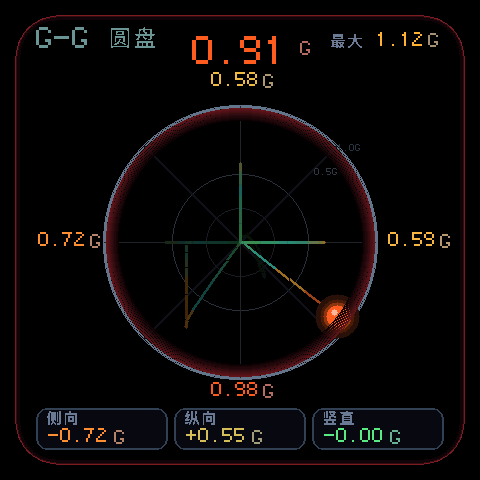
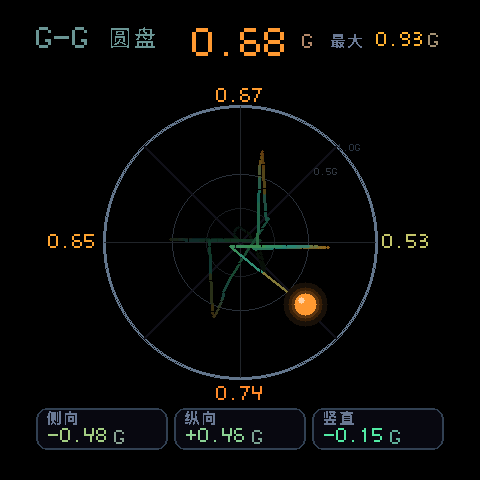
重力实时补偿+自动姿态、去掉校准提示框/双击清峰值、频谱互切整屏重推、宠物去感叹号提增益、频谱按80%分位自适应

Changed region(s): [[0.0625, 0.0312, 0.9688, 0.9375], [0.0625, 0.875, 0.9375, 0.9688], [0.0312, 0.0625, 0.0625, 0.9375]]

diff --git a/GValueMeter/gmeter.cpp b/GValueMeter/gmeter.cpp
@@ -35,6 +35,7 @@ bool GMeter::begin() {
     saveAxis();
   }
   _peak = s_prefs.getFloat("peak", 0.f);
+  _autoAxis = s_prefs.getBool("auto", true);
 
   /* 板上 SA0 通常拉低 => 0x6A；个别批次为 0x6B，两个都试一次 */
   _imuOk = qmiBegin(IIC_SDA, IIC_SCL);
@@ -73,6 +74,17 @@ void GMeter::setAxis(uint8_t lat, uint8_t lon, uint8_t vert, int8_t latSign, int
   _latIdx = lat; _lonIdx = lon; _vertIdx = vert;
   _latSign = latSign < 0 ? -1 : 1;
   _lonSign = lonSign < 0 ? -1 : 1;
+  _autoAxis = false;
+  s_prefs.begin("gmeter", false);
+  s_prefs.putUChar("sig", 0xA8);
+  s_prefs.putBool("auto", false);
+  saveAxis();
+}
+
+void GMeter::setAutoAxis(bool on) {
+  _autoAxis = on;
+  s_prefs.begin("gmeter", false);
+  s_prefs.putBool("auto", on);
   s_prefs.putUChar("sig", 0xA8);
   saveAxis();
 }
@@ -115,7 +127,6 @@ void GMeter::taskStep() {
   }
 
   float v[3] = {rx * _unit, ry * _unit, rz * _unit};
-
   /* ---- 2) 零点采集（重力矢量） ---- */
   if (_zeroReq) {
     for (int i = 0; i < 3; i++) {
@@ -132,6 +143,11 @@ void GMeter::taskStep() {
         if (var > 0) varSum += var;
       }
       _noise = sqrtf(varSum / 3.f);            // 静止噪声（各轴标准差 RMS）
+      /* 重力估计从零点采样均值出发，之后逐帧低通跟住 */
+      _grav[0] = _g0[0]; _grav[1] = _g0[1]; _grav[2] = _g0[2];
+      _gmag = sqrtf(_g0[0] * _g0[0] + _g0[1] * _g0[1] + _g0[2] * _g0[2]);
+      if (_gmag < 0.75f) _gmag = 0.75f;
+      if (_gmag > 1.25f) _gmag = 1.25f;
       _f[0] = _f[1] = _f[2] = 0.f;
       _fast[0] = _fast[1] = _fast[2] = 0.f;
       _mag = _rawMag = 0.f;
@@ -156,11 +172,47 @@ void GMeter::taskStep() {
   if (dt <= 0.f) dt = 0.001f;
   if (dt > 0.2f) dt = 0.2f;
 
-  float d[3] = {v[0] - _g0[0], v[1] - _g0[1], v[2] - _g0[2]};
+  /* ---- 3) 动态加速度：重力方向实时估计后整条减掉 ----
+   * 只减一次固定零点的话，设备换个摆放角度（屏立着 ↔ 平放）重力就会串到
+   * 别的轴上：静态读数 0.7G、圆球被顶在下半圆、轴向看起来"调换"。
+   * 这里用一阶低通跟住重力方向并单位化：
+   *   rd = v·u（沿重力的分量，静止 ≈ 1）
+   *   d  = v - rd·u（动态加速度，静止恒为 0，任意姿态都不串轴）
+   *   vert = 1 - rd（竖直动态，向上为正） */
+  float aG = 1.f - expf(-dt / 2.0f);
+  _grav[0] += (v[0] - _grav[0]) * aG;
+  _grav[1] += (v[1] - _grav[1]) * aG;
+  _grav[2] += (v[2] - _grav[2]) * aG;
+  float gl = sqrtf(_grav[0] * _grav[0] + _grav[1] * _grav[1] + _grav[2] * _grav[2]);
+  if (gl < 0.25f) {                       /* 估计还没起来：退回固定零点 */
+    _grav[0] = _g0[0]; _grav[1] = _g0[1]; _grav[2] = _g0[2];
+    gl = sqrtf(_g0[0] * _g0[0] + _g0[1] * _g0[1] + _g0[2] * _g0[2]);
+    if (gl < 0.25f) gl = 1.f;
+  }
+  float u0 = _grav[0] / gl, u1 = _grav[1] / gl, u2 = _grav[2] / gl;
 
-  float lat  = pick(d, _latIdx) * (float)_latSign;
-  float lon  = pick(d, _lonIdx) * (float)_lonSign;
-  float vert = pick(d, _vertIdx);
+  /* 重力模长也跟住（这块 IMU 原始 |g| 大约 0.87，用它做静止基准，
+   * 竖直条才不会一直顶着一个 0.13 的常数偏置） */
+  _gmag += (gl - _gmag) * aG;
+  if (_gmag < 0.75f) _gmag = 0.75f;
+  if (_gmag > 1.25f) _gmag = 1.25f;
+
+  float rd = v[0] * u0 + v[1] * u1 + v[2] * u2;
+  float d[3] = {v[0] - rd * u0, v[1] - rd * u1, v[2] - rd * u2};
+  float vertDyn = _gmag - rd;
+
+  float lat, lon, vert;
+  if (_autoAxis) {
+    /* u 更像 Y 轴 → 屏幕立着：纵向取 Z；否则屏幕平放：纵向取 Y */
+    bool upright = fabsf(u1) >= fabsf(u2);
+    lat  = d[_latIdx] * (float)_latSign;
+    lon  = (upright ? d[2] : d[1]) * (float)_lonSign;
+    vert = vertDyn;
+  } else {
+    lat  = pick(d, _latIdx) * (float)_latSign;
+    lon  = pick(d, _lonIdx) * (float)_lonSign;
+    vert = vertDyn;
+  }
 
   float aSlow = 1.f - expf(-dt / ACC_FILTER_TAU);
   float aFast = 1.f - expf(-dt / PEAK_TAU);

diff --git a/GValueMeter/mic_audio.cpp b/GValueMeter/mic_audio.cpp
@@ -249,31 +249,42 @@ static void computeSpectrum() {
     s_bIdx = (s_bIdx + 1) % NF_SPEC_WIN;
   }
 
-  /* 逐段 SNR（相对本段底噪），并找最响的一段 */
+  /* 逐段 SNR（相对本段底噪） */
   float snrB[AUDIO_BANDS];
-  float maxSnr = -999.f;
-  for (int b = 0; b < AUDIO_BANDS; b++) {
-    snrB[b] = v0[b] - s_bFloor[b];
-    if (snrB[b] > maxSnr) maxSnr = snrB[b];
+  for (int b = 0; b < AUDIO_BANDS; b++) snrB[b] = v0[b] - s_bFloor[b];
+
+  /* "满格"对应的 SNR：取 80% 分位而不是最响的那一段。
+   * 用最响段做满格的话（上一版），车里正常音量放歌时只有个别峰值段能顶到，
+   * 其余段全挤在 0.1~0.3，看起来就是"频谱不怎么动"。 */
+  float srt[AUDIO_BANDS];
+  for (int b = 0; b < AUDIO_BANDS; b++) srt[b] = snrB[b];
+  for (int i = 1; i < AUDIO_BANDS; i++) {          /* 20 个元素的插入排序，代价可忽略 */
+    float t = srt[i];
+    int j = i - 1;
+    while (j >= 0 && srt[j] > t) { srt[j + 1] = srt[j]; j--; }
+    srt[j + 1] = t;
   }
+  float p80 = srt[(AUDIO_BANDS * 4) / 5];
 
-  /* "满格"对应的 SNR 自适应：跟住最近的音乐响度（抬得快、落得慢）。
-   * 关键点：满格按 1.18 倍留余量，最响的那段也只到 ~0.85，
-   * 一般车内音量（70~85dB 播放）不会一路顶到上限。 */
   static float s_ceil = 22.f;
-  if (maxSnr > s_ceil) s_ceil += (maxSnr - s_ceil) * 0.06f;
-  else                 s_ceil += (maxSnr - s_ceil) * 0.004f;
-  if (s_ceil < 18.f) s_ceil = 18.f;
-  if (s_ceil > 46.f) s_ceil = 46.f;
+  if (p80 > s_ceil) s_ceil += (p80 - s_ceil) * 0.06f;      /* 抬：~0.3s 跟上 */
+  else              s_ceil += (p80 - s_ceil) * 0.020f;     /* 落：约 1 分钟，音量变小也不会立刻虚涨 */
+  if (s_ceil < 20.f) s_ceil = 20.f;
+  if (s_ceil > 38.f) s_ceil = 38.f;
 
-  const float startSnr = 8.f;                    /* 高出本段底噪 8dB 才起步 */
-  float denom = (s_ceil - startSnr) * 1.18f;
+  const float startSnr = 9.f;                    /* 高出本段底噪 9dB 才起步 */
+  float denom = (s_ceil - startSnr);
   if (denom < 8.f) denom = 8.f;
 
+  /* 静音总闸：整段最响的地方只比全局底噪高不到 8dB，就当没声音，
+   * 这样安静环境里不会有零星柱子在闪（车内音乐一开就能到 15~40dB） */
+  float quiet = (dbmax - s_nFloorDb) < 8.f;
+
   for (int b = 0; b < AUDIO_BANDS; b++) {
-    float v = (snrB[b] - startSnr) * (1.f / denom);
-    if (v < 0.08f) v = 0.f;                      /* 死区：底噪抖动不出柱 */
+    float v = quiet ? 0.f : (snrB[b] - startSnr) * (1.f / denom);
+    if (v < 0.06f) v = 0.f;                      /* 死区：底噪抖动不出柱 */
     if (v > 1.f) v = 1.f;
+    v = powf(v, 0.78f);                          /* 轻微压顶：中段抬起来，别都贴在底部 */
     float old = s_bands[b];
     /* 起音快、回落更慢：柱形平滑，不会一抖一抖 */
     s_bands[b] = (v > old) ? (old + (v - old) * 0.45f) : (old + (v - old) * 0.075f);

diff --git a/GValueMeter/pet_mode.cpp b/GValueMeter/pet_mode.cpp
@@ -178,8 +178,10 @@ void PetMode::update(const GSnapshot &g, const AudioSnapshot &a, float dt) {
    *  刹车（lon<0）身体前冲 → 屏幕上方；左转（lat<0）身体右甩 → 屏幕右侧。 */
   {
     const float MAX_X = 74.f, MAX_Y = 58.f;
-    float tx = -g.lat * 86.f + 4.0f * sinf(_t * 0.72f) + 2.6f * sinf(_t * 1.21f + 1.7f);
-    float ty =  g.lon * 74.f + 3.2f * sinf(_t * 0.88f + 0.6f) + 2.0f * sinf(_t * 1.37f + 2.4f);
+    /* 日常行车 G 值多在 0.5 以内，原来 86/74 的增益太"温"，0.2G 才挪十几像素；
+     * 提到 150/125 后 0.3G 就能顶到底，小幅加减速也看得出来。 */
+    float tx = -g.lat * 150.f + 4.0f * sinf(_t * 0.72f) + 2.6f * sinf(_t * 1.21f + 1.7f);
+    float ty =  g.lon * 125.f + 3.2f * sinf(_t * 0.88f + 0.6f) + 2.0f * sinf(_t * 1.37f + 2.4f);
     if (tx >  MAX_X) tx =  MAX_X;  if (tx < -MAX_X) tx = -MAX_X;
     if (ty >  MAX_Y) ty =  MAX_Y;  if (ty < -MAX_Y) ty = -MAX_Y;
 
@@ -486,14 +488,7 @@ void PetMode::drawEffectsFront(CanvasGFX *c, float cx, float cy, float R,
     }
   }
 
-  /* 刹车 / 高 G：感叹号 */
-  float bangK = (_brkT > 0.30f) ? _brkT / 0.95f : 0.f;
-  if (g.mag > HIGH_G_LIMIT) bangK = fmaxf(bangK, 0.65f + 0.35f * sinf(_t * 18.f));
-  if (bangK > 0.05f) {
-    if (bangK > 1.f) bangK = 1.f;
-    float len = 22.f + 4.f * sinf(_t * 14.f);
-    hudBang(c, cx, 100.f, len, 11.f, fade565(COL_RED, KB, 0.30f + 0.70f * bangK));
-  }
+  /* 刹车 / 高 G 的感叹号已去掉：日常行车 G 值小，红感叹号反而显得"报错" */
 
   /* 打哈欠：头顶飘出三个越来越大的 Z */
   if (_yawnOpen > 0.20f) {

diff --git a/GValueMeter/gmeter.h b/GValueMeter/gmeter.h
@@ -50,6 +50,8 @@ class GMeter {
   void setAxis(uint8_t lat, uint8_t lon, uint8_t vert, int8_t latSign, int8_t lonSign);
   void getAxis(uint8_t &lat, uint8_t &lon, uint8_t &vert, int8_t &latSign, int8_t &lonSign) const;
   void saveAxis();
+  void setAutoAxis(bool on);                 // 自动姿态（横放/竖放自动换轴向）
+  bool autoAxis() const { return _autoAxis; }
 
  private:
   float pick(const float *v, uint8_t idx) const { return v[idx]; }
@@ -66,6 +68,12 @@ class GMeter {
   uint8_t  _vertIdx = DEF_VERT_AXIS;
   int8_t   _latSign = DEF_LAT_SIGN;
   int8_t   _lonSign = DEF_LON_SIGN;
+
+  /* 自动姿态：屏幕立着（Y 更竖）用 lon=Z；屏幕平放用 lon=Y、vert=Z。
+   * 重力方向实时估计后整条减掉，横放/竖放/斜拿静态读数都归零。 */
+  bool     _autoAxis = true;
+  float    _grav[3] = {0, 0, 1};      // 重力方向（单位化前的原始矢量）
+  float    _gmag = 0.9f;              // 重力模长估计（IMU 刻度可能不是 1.000）
 
   /* 校准累加 */
   int      _calN = 0;

diff --git a/GValueMeter/sim/stubs/Preferences.h b/GValueMeter/sim/stubs/Preferences.h
@@ -21,6 +21,12 @@ class Preferences {
   }
   void putFloat(const char *k, float v) { store(k, v); }
 
+  bool getBool(const char *k, bool def = false) {
+    int i = find(k);
+    return i < 0 ? def : (_v[i] > 0.5f);
+  }
+  void putBool(const char *k, bool v) { store(k, v ? 1.f : 0.f); }
+
  private:
   int find(const char *k) {
     char full[40];

diff --git a/GValueMeter/README.md b/GValueMeter/README.md
@@ -260,6 +260,16 @@ GValueMeter/
 
 ## 更新记录
 
+### 2026-11-25 · 姿态自适应（重力补偿）与交互清理
+
+- **重力实时补偿**：以前只减一次"静止零点"，设备换个摆放角度重力就串到别的轴——竖放时读数 0.73G、G-G 圆盘小球被顶在下半圆、侧向/纵向/竖直看起来"互相对调"。现在用一阶低通跟住重力方向并单位化，`d = v - (v·u)·u` 整条减掉，任何姿态静止都读 0.00。
+- **自动姿态**：`|u_y| ≥ |u_z|`（屏立着）纵向取 Z；屏平放纵向取 Y、竖直取 Z。串口 `axis auto` / `axis lat=-x …` 可手动固定。
+- **G 值刻度**：重力模长也跟住（这块 QMI8658 原始 `|g|≈0.87`），竖直条不再挂 0.13 的常数偏置。
+- **删掉两个交互**：BOOT 短按不再弹「重新校准水平」提示框，侧面键双击不再清峰值（只保留单击切页）；提示框消失时强制重画整页，不会再残留在屏上。
+- **频谱 ↔ 三页互切**：切换时整屏重推 + 当前页按整页重画，修掉"切回来一堆残留"。
+- **宠物页**：去掉刹车/高 G 的红色感叹号（日常行车 G 值小，看着像报错）；上下左右位移增益 86/74 → 150/125，0.3G 就能顶到底。
+- **频谱灵敏度**：满格从"最响那一段"改成 80% 分位 + 慢抬快落，另加 8dB 静音总闸。实测安静 0.00、笔记本放歌 bar 12~13（原来 3 左右）。
+
 ### 2026-11-25 · 单缓冲重构：修掉专业页频闪与切页残影
 
 - **根因**：双缓冲 `bufA/bufB` 交替显示。专业页改成局部刷新后，静态元素和大数字只在其中一块缓冲更新，另一块还停在旧位置，两帧交替 → 数字位置来回跳，看起来就是整屏频闪；切页时只有当前缓冲被整页重画，另一块仍是上一页 → 两页交替，残影 + 强闪。

diff --git a/README.md b/README.md
@@ -260,6 +260,16 @@ GValueMeter/
 
 ## 更新记录
 
+### 2026-11-25 · 姿态自适应（重力补偿）与交互清理
+
+- **重力实时补偿**：以前只减一次"静止零点"，设备换个摆放角度重力就串到别的轴——竖放时读数 0.73G、G-G 圆盘小球被顶在下半圆、侧向/纵向/竖直看起来"互相对调"。现在用一阶低通跟住重力方向并单位化，`d = v - (v·u)·u` 整条减掉，任何姿态静止都读 0.00。
+- **自动姿态**：`|u_y| ≥ |u_z|`（屏立着）纵向取 Z；屏平放纵向取 Y、竖直取 Z。串口 `axis auto` / `axis lat=-x …` 可手动固定。
+- **G 值刻度**：重力模长也跟住（这块 QMI8658 原始 `|g|≈0.87`），竖直条不再挂 0.13 的常数偏置。
+- **删掉两个交互**：BOOT 短按不再弹「重新校准水平」提示框，侧面键双击不再清峰值（只保留单击切页）；提示框消失时强制重画整页，不会再残留在屏上。
+- **频谱 ↔ 三页互切**：切换时整屏重推 + 当前页按整页重画，修掉"切回来一堆残留"。
+- **宠物页**：去掉刹车/高 G 的红色感叹号（日常行车 G 值小，看着像报错）；上下左右位移增益 86/74 → 150/125，0.3G 就能顶到底。
+- **频谱灵敏度**：满格从"最响那一段"改成 80% 分位 + 慢抬快落，另加 8dB 静音总闸。实测安静 0.00、笔记本放歌 bar 12~13（原来 3 左右）。
+
 ### 2026-11-25 · 单缓冲重构：修掉专业页频闪与切页残影
 
 - **根因**：双缓冲 `bufA/bufB` 交替显示。专业页改成局部刷新后，静态元素和大数字只在其中一块缓冲更新，另一块还停在旧位置，两帧交替 → 数字位置来回跳，看起来就是整屏频闪；切页时只有当前缓冲被整页重画，另一块仍是上一页 → 两页交替，残影 + 强闪。
